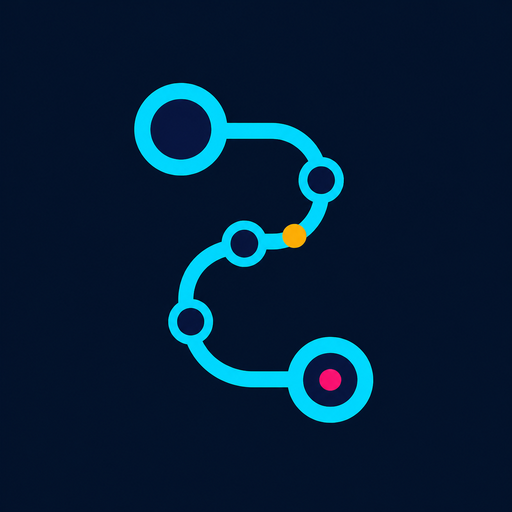
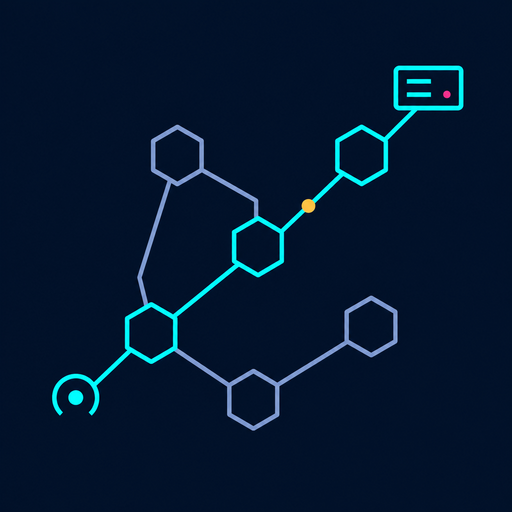
docs: refine scanr mark into proxy topology

Changed region(s): [[0.2188, 0.1562, 0.7812, 0.8438], [0.75, 0.125, 0.9062, 0.25], [0.0938, 0.7188, 0.2188, 0.8125]]

diff --git a/assets/brand/README.md b/assets/brand/README.md
@@ -1,9 +1,9 @@
 # scanr brand
 
-The mark follows one scanning pulse through an S-shaped proxy route. The three smaller
-nodes are proxy hops between the larger endpoints. Cyan is the path, amber is the probe
-in flight, and magenta is the endpoint state. The deep-ink tile keeps the mark legible
-on light and dark backgrounds.
+The mark maps a scan across a branching proxy topology. Bright cyan traces the selected
+route from the scanner to its target; muted branches show the other available hops.
+Amber is the probe in flight, and magenta is the target state. The deep-ink tile keeps
+the mark legible on light and dark backgrounds.
 
 ## Assets
 

diff --git a/README.md b/README.md
@@ -1,5 +1,5 @@
 <p align="center">
-  <img src="assets/brand/scanr-mark.png" width="168" alt="scanr: a probe following an S-shaped route through three proxy hops">
+  <img src="assets/brand/scanr-mark.png" width="168" alt="scanr: one highlighted scan route through a branching proxy topology">
 </p>
 
 <h1 align="center">scanr</h1>
